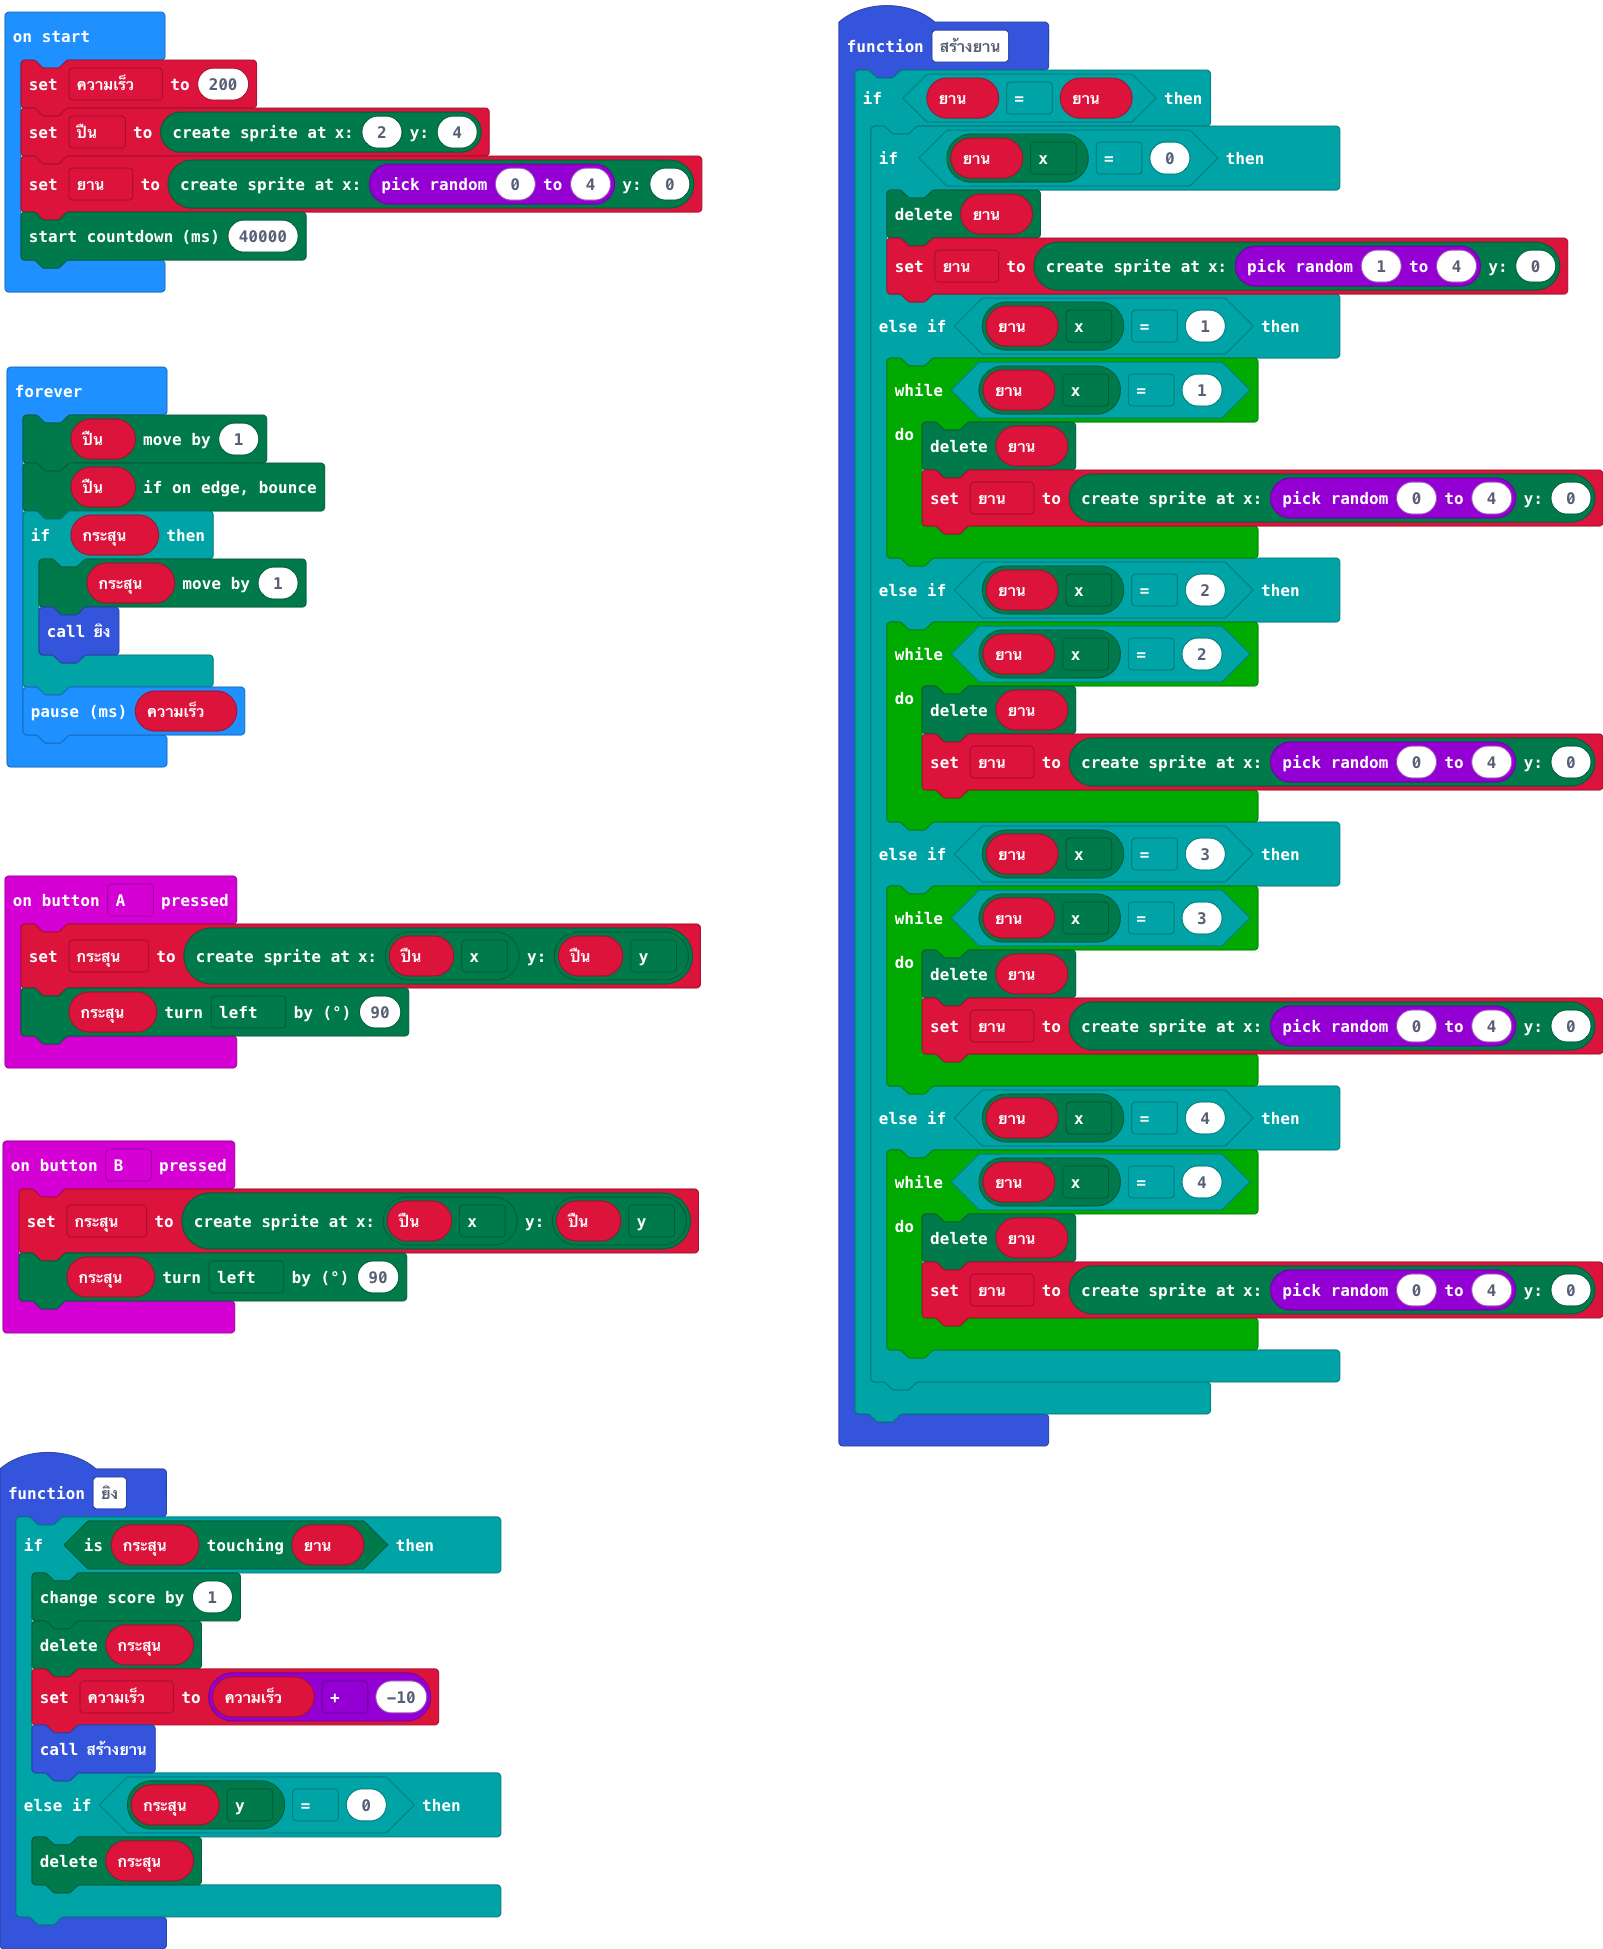
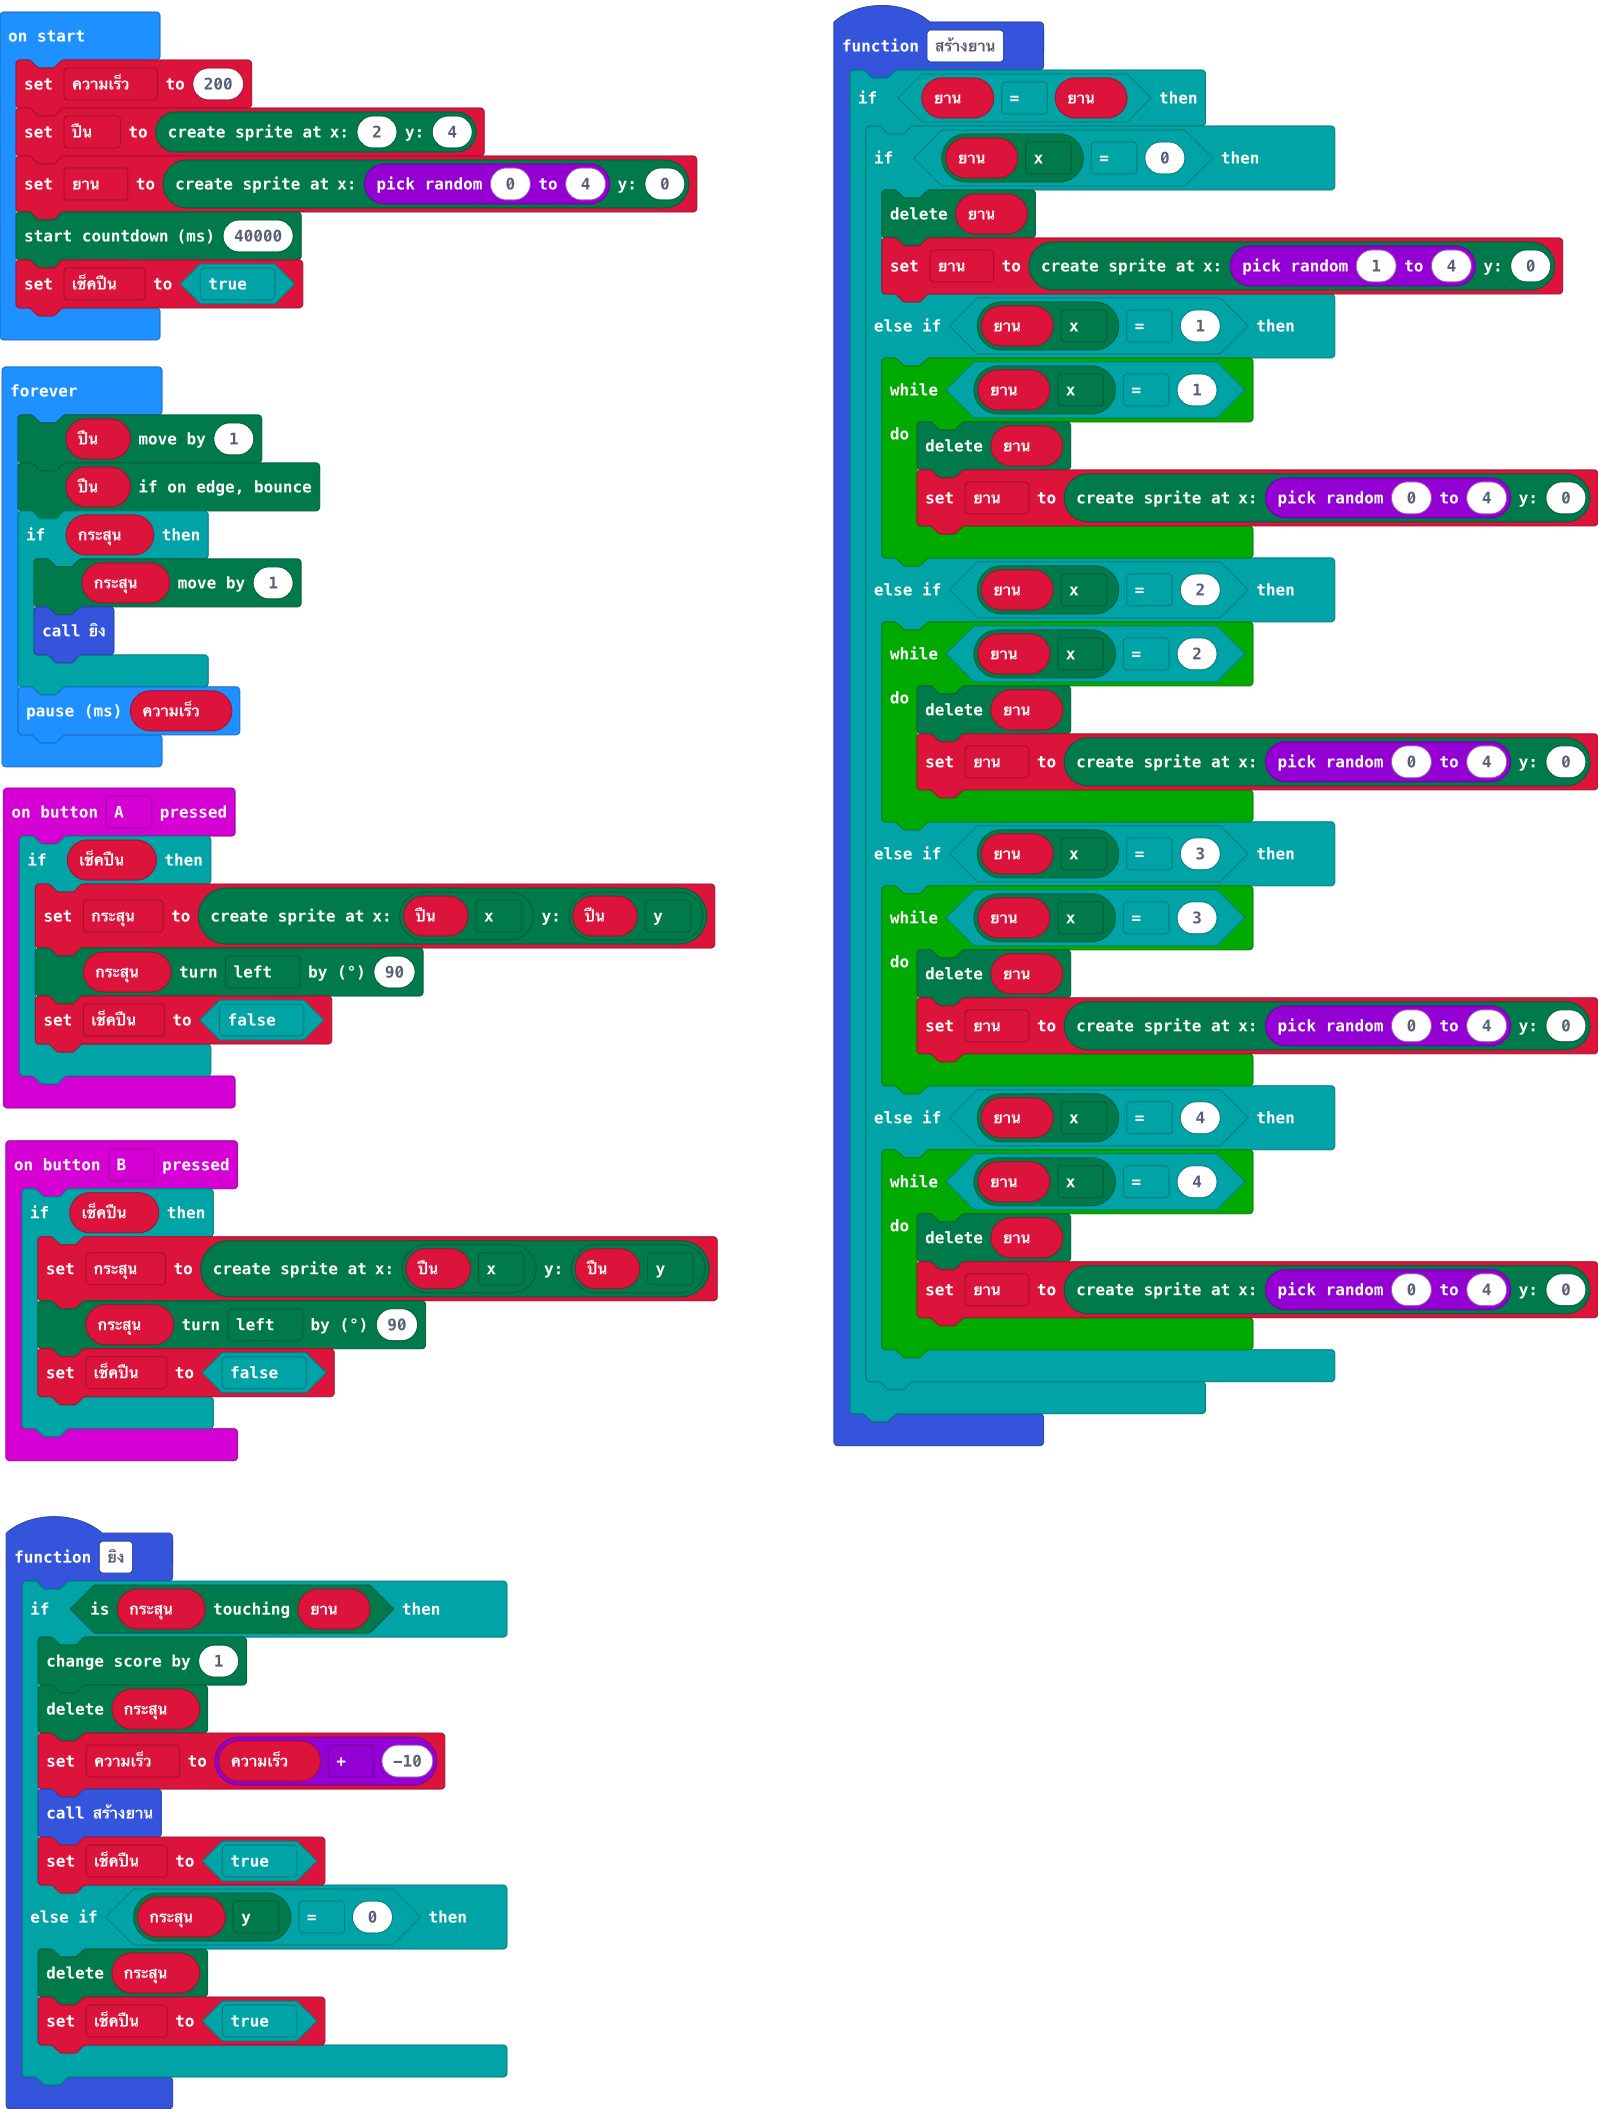
Update main.blocks, main.ts

diff --git a/main.ts b/main.ts
@@ -4,13 +4,18 @@ function ยิง () {
         กระสุน.delete()
         ความเร็ว = ความเร็ว + -10
         สร้างยาน()
+        เช็คปืน = true
     } else if (กระสุน.get(LedSpriteProperty.Y) == 0) {
         กระสุน.delete()
+        เช็คปืน = true
     }
 }
 input.onButtonPressed(Button.A, function () {
-    กระสุน = game.createSprite(ปืน.get(LedSpriteProperty.X), ปืน.get(LedSpriteProperty.Y))
-    กระสุน.turn(Direction.Left, 90)
+    if (เช็คปืน) {
+        กระสุน = game.createSprite(ปืน.get(LedSpriteProperty.X), ปืน.get(LedSpriteProperty.Y))
+        กระสุน.turn(Direction.Left, 90)
+        เช็คปืน = false
+    }
 })
 function สร้างยาน () {
     if (ยาน == ยาน) {
@@ -41,10 +46,14 @@ function สร้างยาน () {
     }
 }
 input.onButtonPressed(Button.B, function () {
-    กระสุน = game.createSprite(ปืน.get(LedSpriteProperty.X), ปืน.get(LedSpriteProperty.Y))
-    กระสุน.turn(Direction.Left, 90)
+    if (เช็คปืน) {
+        กระสุน = game.createSprite(ปืน.get(LedSpriteProperty.X), ปืน.get(LedSpriteProperty.Y))
+        กระสุน.turn(Direction.Left, 90)
+        เช็คปืน = false
+    }
 })
 let กระสุน: game.LedSprite = null
+let เช็คปืน = false
 let ยาน: game.LedSprite = null
 let ปืน: game.LedSprite = null
 let ความเร็ว = 0
@@ -52,6 +61,7 @@ let ความเร็ว = 0
 ปืน = game.createSprite(2, 4)
 ยาน = game.createSprite(randint(0, 4), 0)
 game.startCountdown(40000)
+เช็คปืน = true
 basic.forever(function () {
     ปืน.move(1)
     ปืน.ifOnEdgeBounce()
